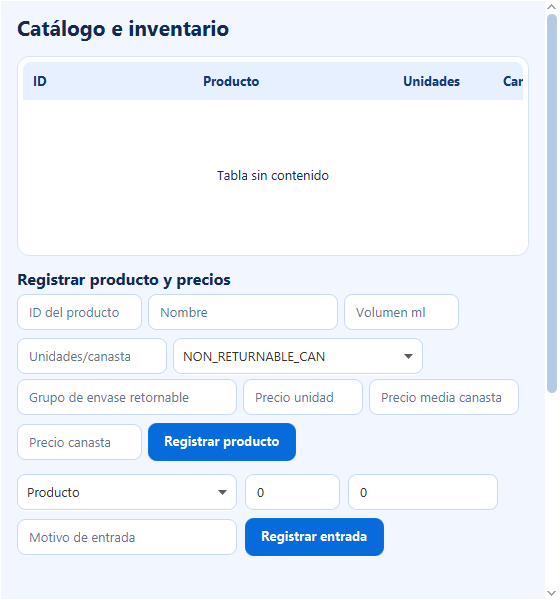
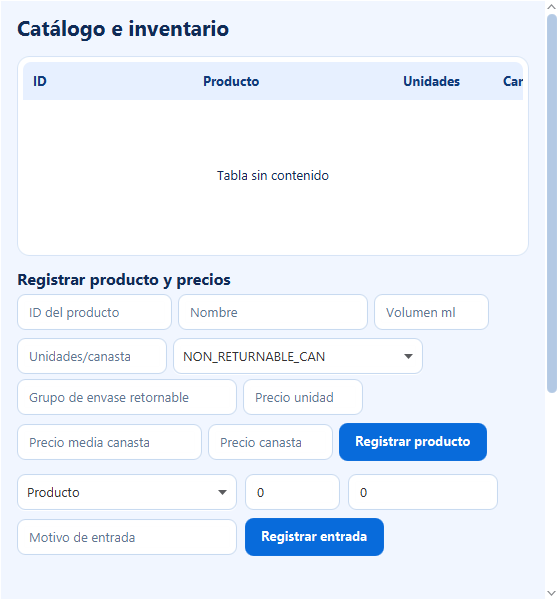
fix(ui): accommodate Linux font metrics

diff --git a/docs/ai-usage/developer2-ai-log.md b/docs/ai-usage/developer2-ai-log.md
@@ -688,3 +688,14 @@ los resultados; no se usan por sí solos para atribuir uso de IA.
 * **Qué se acepta, modifica o descarta y por qué:** Se retiraron los ensayos sobre el FXML de Cartera al detectar solapamiento con #26. También se descartó el ajuste multilínea porque recortaba filas; no se incorporaron controladores ni renderizadores nuevos. Se conserva la mascota original, el diseño aprobado y la navegación actual, sin Compras provisional ni cambios de App.java, servicios, base de datos o iconos.
 * **Verificación realizada:** Temurin 17.0.21+9, Maven offline `clean verify`: 833 casos, 774 aprobados, 59 PostgreSQL omitidos, 0 fallos/errores. Las 14 pruebas visuales se repitieron al añadir una captura centrada en el formulario de Cartera: 14/14. Las pruebas detectaron y corrigieron cuatro ayudas recortadas; comprueban espacio de los tres tipos de envase, límites de acciones, navegación completa y desplazamiento horizontal del inventario memory. Capturas reales en `docs/ui-review`. Límites y coordinación tras #26 en `docs/ui-modernization.md`; sin SQL ni integración de esa rama. Entradas anteriores conservadas byte por byte.
 * **Commit o Pull Request relacionado:** Continuación del [PR #25](https://github.com/carloscamelo2008-lang/la-exclusiva-p3/pull/25), que sigue en Draft; commit pendiente al registrar esta entrada.
+
+### Continuación de la Interacción 44 – CI multiplataforma y cambio de base
+
+* **Fecha:** 23/11/2026.
+* **Herramienta:** Codex.
+* **Fase, tarea y rama:** Validación posterior al push `7100748`; `feature/ui-modernization`.
+* **Objetivo de la consulta:** Completar la comprobación de CI y del estado real del PR #25 dentro de la misma tarea, sin resolver archivos compartidos sin coordinación.
+* **Resumen de la respuesta recibida:** La CI de Ubuntu/Java 17 detectó ayudas recortadas en ID del producto y precio de media canasta. Se ampliaron únicamente esos anchos a 155/185 px. Durante la tarea Carlos fusionó #26 en `6e6db09` a las 15:12:38 de America/Bogota; se actualizó la referencia de develop y se inspeccionó el solapamiento con merge-tree, sin integrar cambios.
+* **Qué se acepta, modifica o descarta y por qué:** Se mantienen estrictas las pruebas de métricas y se corrige el tamaño, en lugar de aceptar texto recortado. No se resuelven automáticamente los conflictos de main_menu_view.fxml, portfolio_view.fxml y AuthenticationServiceTest.java: requieren coordinar conservación de Compras, Cartera y regresiones de sesión con Carlos.
+* **Verificación realizada:** CI fallida inicial: run `45257242567`, 833 casos, 1 error agregado de métricas y 59 omitidos. Tras la corrección, Temurin 17.0.21+9 y Maven offline clean verify local: 833 casos, 774 aprobados, 59 PostgreSQL omitidos, 0 fallos/errores, incluidas 14 visuales. Capturas de Inventario renovadas. No hubo SQL ni merge; la CI posterior se comprobará tras publicar. Entradas anteriores preservadas byte por byte.
+* **Commit o Pull Request relacionado:** [PR #25](https://github.com/carloscamelo2008-lang/la-exclusiva-p3/pull/25) en Draft; corrección posterior a `7100748` pendiente de commit al registrar esta continuación.

diff --git a/docs/ui-modernization.md b/docs/ui-modernization.md
@@ -61,7 +61,7 @@ contenido se conserva igual al de `8be2051`.
 Mejoras comprobables de esta continuación:
 
 - Inventario: se amplían volumen, unidades por canasta, grupo de envase y unidades
-  sueltas porque la medición con la fuente real detectó cuatro ayudas recortadas.
+  sueltas porque la medición con la fuente real detectó cuatro ayudas recortadas. La CI de Linux detectó además cortes en ID del producto y precio de media canasta; se ampliaron a 155 y 185 px respectivamente, sin debilitar las aserciones.
   El selector de envase pasa de 175 a 250 px para que quepan los tres valores
   del conversor actual, que se conserva sin traducir ni cambiar su lógica.
 - Ambas tablas de Inventario reciben altura preferida de 200 px, con mínimo de
@@ -96,3 +96,29 @@ Compras y repetir el recorrido compacto de Cartera, compras/recepciones, permiso
 y logout. La observación funcional sobre selección de ventas/abonos descrita en
 el PR #26 corresponde a su integración y no se presenta como resuelta por estos
 ajustes visuales. App.java, launcher, iconos y servicios siguen fuera del alcance.
+
+### Actualización de base durante la validación final
+
+El PR #26 se fusionó **durante esta tarea**, el 23/11/2026 a las 15:12:38 de
+America/Bogota, mediante `6e6db096ce0ba044e2890da02a902c302ffea579`.
+La comprobación anterior de que estaba abierto correspondía a la inspección
+inicial. Se actualizó únicamente `origin/develop` con fetch; no se integró la
+rama ni se modificó el árbol de trabajo para resolver conflictos.
+
+La simulación de solo lectura con `git merge-tree` identificó conflictos en:
+
+- `src/main/resources/com/laexclusiva/ui/fxml/main_menu_view.fxml`.
+- `src/main/resources/com/laexclusiva/ui/fxml/portfolio_view.fxml`.
+- `src/test/java/com/laexclusiva/service/AuthenticationServiceTest.java`.
+
+Estos solapamientos provienen de las integraciones previas de ambos PR, no de
+los ajustes compactos de `7100748`. Resolverlos requiere coordinación con Carlos
+para conservar Compras, el contenedor/tabla de Cartera y las regresiones de
+sesión. No se hizo merge ni se resolvieron automáticamente archivos compartidos.
+El PR #25 continúa en Draft y no está listo para merge mientras persista ese bloqueo.
+
+La CI del push `7100748` ejecutó 833 casos y falló en la prueba de métricas por
+los dos textos de Inventario indicados arriba (1 caso con error, 59 omitidos).
+La corrección conserva las pruebas estrictas y solo aumenta esos dos anchos;
+la CI posterior se informa con su ejecución real, sin atribuir éxito a la
+integración del PR mientras su base siga en conflicto.
